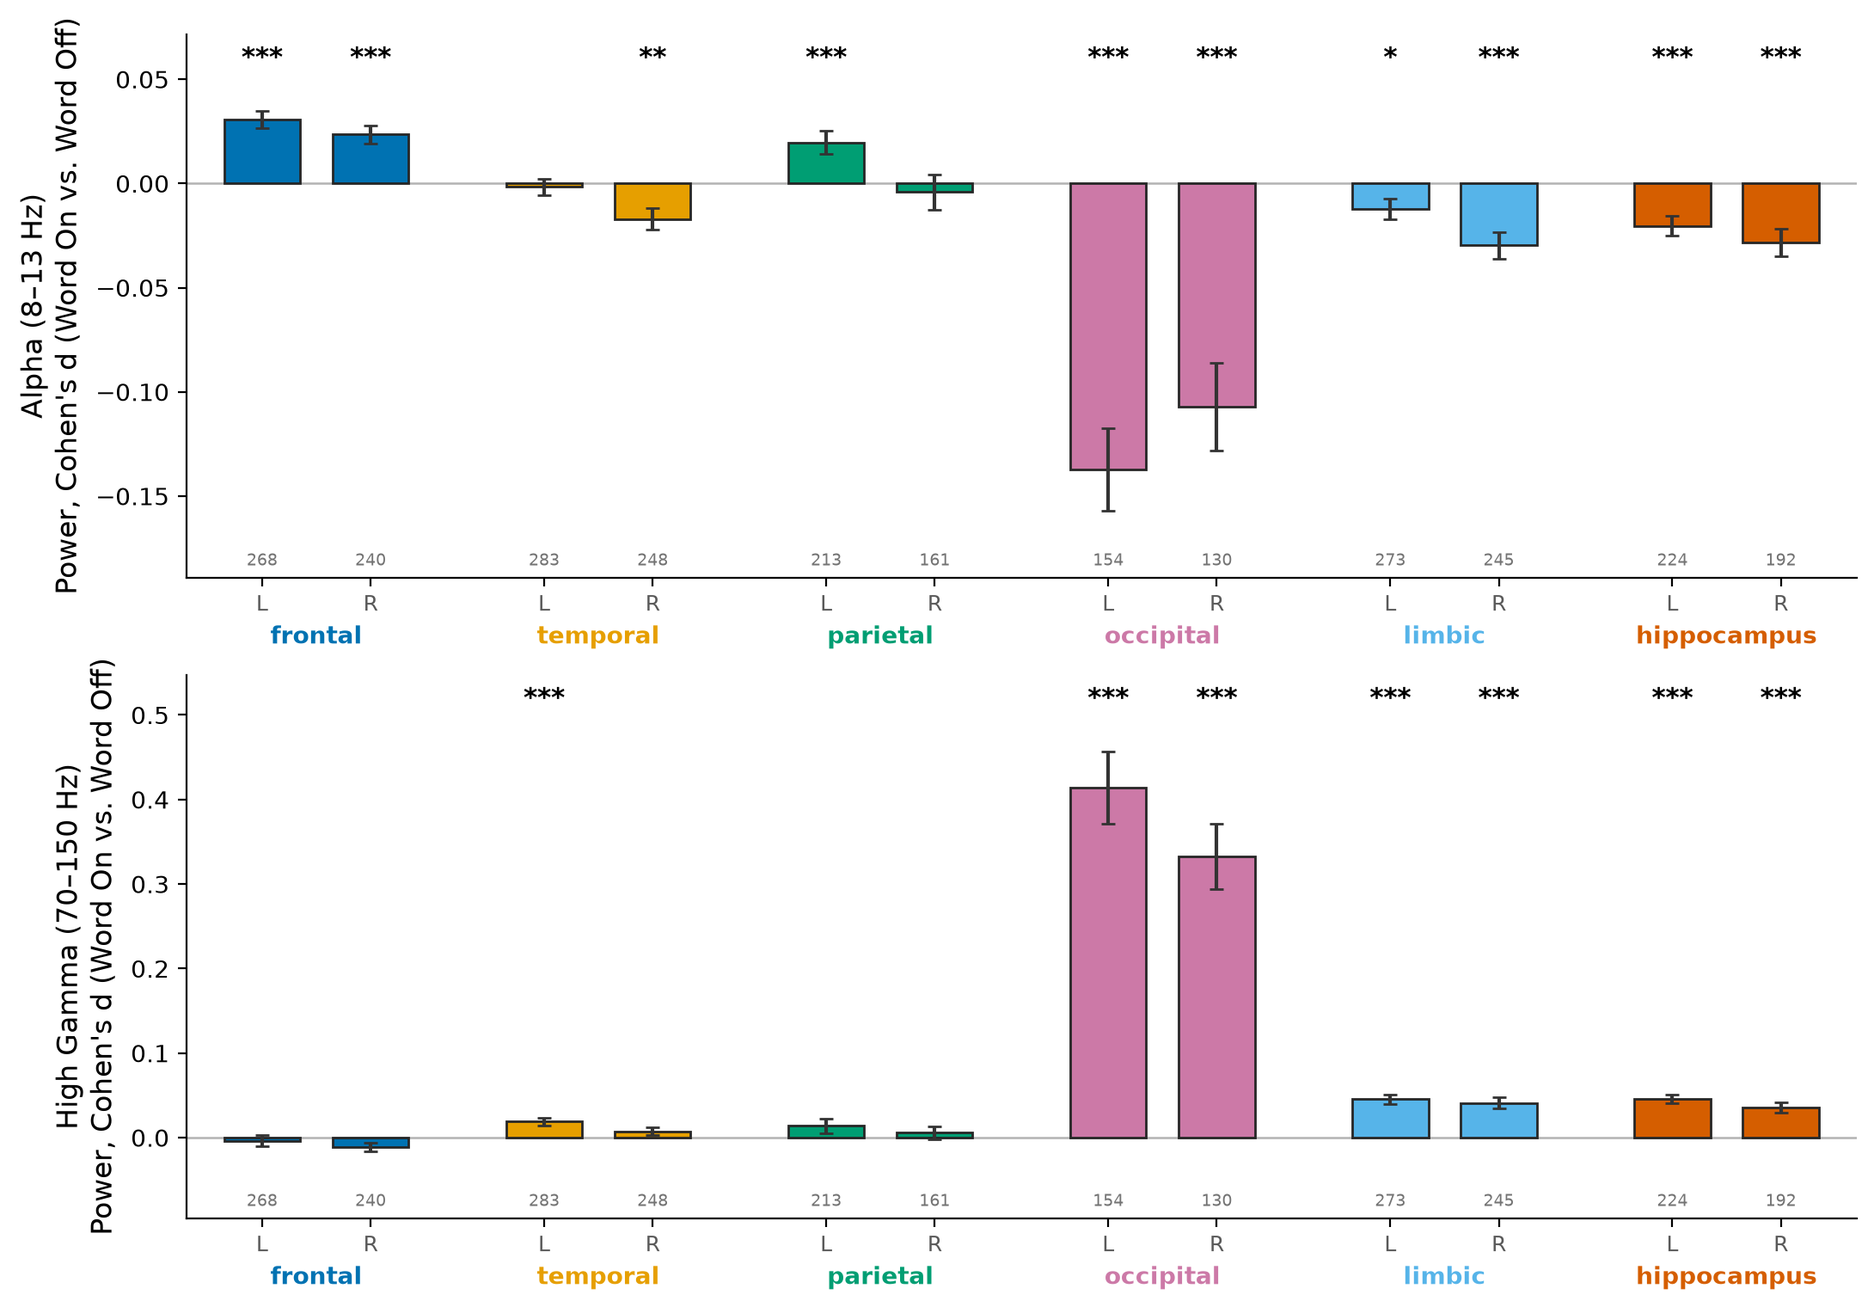
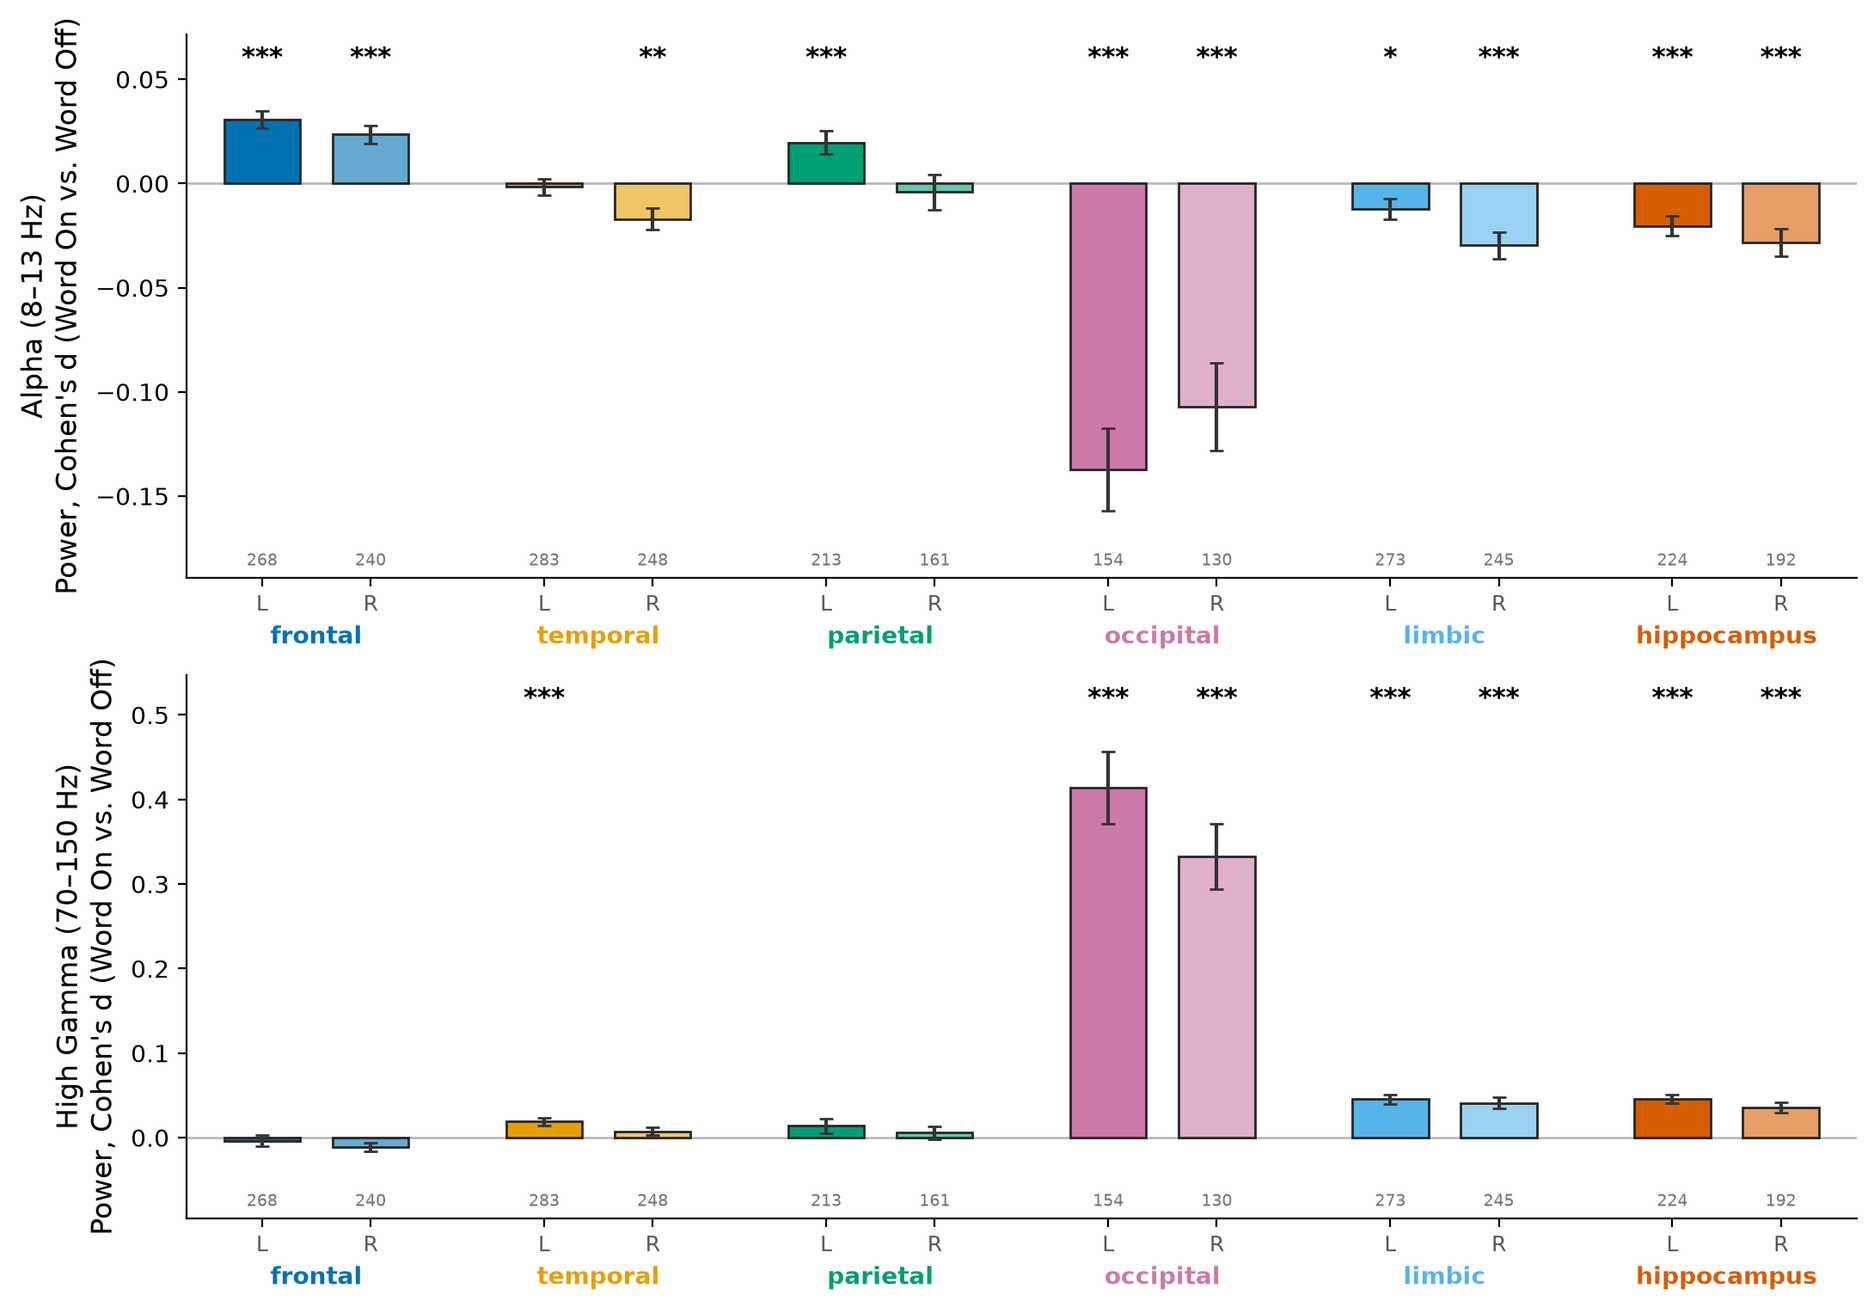
Compare SME AUC based on paper's features, plot formatting changes

diff --git a/plot_decoding.py b/plot_decoding.py
@@ -1,0 +1,121 @@
+"""plot_decoding.py -- does the single-trial word-onset response predict later recall?
+
+Per trial and Burke ROI (LOBES: those with a clear spectral effect), from compute.py's
+power pickles, mean over the ROI's electrodes; one group per paper section:
+  power        word on (0-600 ms): log alpha, log high-gamma power         (power figure)
+  time course  high-gamma response (plot_latency.response) in 100 ms bins,
+               0-1000 ms                                                  (time course)
+  pre-word     word off (the blank before the word): log alpha, log high-gamma
+               power; and the blank's duration                           (anticipation)
+z-scored within session; missing values (ROI absent) -> 0.
+
+Per subject (>= MIN_TRIALS recalled and forgotten words): L2 logistic regression
+(C as the lab's RAM encoding classifiers, Ezzyat et al. 2017), balanced class weights,
+leave-one-session-out (single-session subjects: 5 contiguous blocks of trials); AUC of
+the pooled held-out predictions. Models add the groups in turn. Across subjects:
+one-sample t of AUC vs 0.5; paired t of each model vs the one before it (does the
+group add information?).
+-> figures/decoding/recall_auc_word_on.png (+ _per_subject.csv)
+
+    python plot_decoding.py [--simulation-tag TAG]
+"""
+from __future__ import annotations
+
+import os
+from os.path import join
+
+import matplotlib.pyplot as plt
+import numpy as np
+import pandas as pd
+from scipy.stats import ttest_1samp, ttest_rel
+from sklearn.linear_model import LogisticRegression
+from sklearn.metrics import roc_auc_score
+from sklearn.model_selection import LeaveOneGroupOut, cross_val_predict
+from tqdm.auto import tqdm
+
+import fc_comparison_functions as fc
+from compute import power_dir
+from plot_latency import response
+
+BEH = "word_on"
+LOBES = ("frontal", "occipital", "hippocampus")   # both hemispheres
+GROUPS = {"power": ["alpha", "hg_power"], "time course": ["hg_t"], "pre-word": ["alpha_pre", "hg_pre", "wait"]}
+MODELS = {"power": GROUPS["power"], "+ time course": GROUPS["power"] + GROUPS["time course"],
+          "+ pre-word": sum(GROUPS.values(), [])}
+BIN_MS = 100
+MIN_TRIALS = 10
+C = 7.2e-4   # L2 strength of the lab's encoding classifiers; C = 1 overfits the time-course features
+
+
+def session_features(p: dict, p_alpha: dict, lobe_of: dict) -> pd.DataFrame:
+    """(trials x '<feature>|<roi>') z-scored within the session, + recalled, session."""
+    roi = fc.roi_of_reg_full(p["reg_full"], lobe_of)
+    x, t = response(p)
+    log = lambda q, k: np.log(np.asarray(q[k], float))
+    cols = {"wait": p["blank_ms_hi"]}
+    for r in {r for r in roi if r is not None and r.split("-", 1)[1] in LOBES}:
+        e = roi == r
+        cols[f"alpha|{r}"], cols[f"hg_power|{r}"] = log(p_alpha, "trial_pow_hi")[:, e].mean(1), log(p, "trial_pow_hi")[:, e].mean(1)
+        cols[f"alpha_pre|{r}"], cols[f"hg_pre|{r}"] = log(p_alpha, "trial_pow_lo")[:, e].mean(1), log(p, "trial_pow_lo")[:, e].mean(1)
+        for a in range(0, 1000, BIN_MS):
+            cols[f"hg_t|{r}|{a}"] = x[:, e][..., (t >= a) & (t < a + BIN_MS)].mean((1, 2))
+    f = pd.DataFrame(cols)
+    f = (f - f.mean()) / f.std()
+    f["recalled"], f["session"] = p["recalled_hi"], str(p["sid"])
+    return f
+
+
+def main() -> None:
+    args, save_root = fc.plot_args(__doc__, join("figures", "decoding"))
+    lobe_of = fc.load_burke_maps()
+    subs: dict[str, list] = {}
+    for f in tqdm(fc.session_files(power_dir(save_root, BEH, "high_gamma"), "_power.pkl", args.n_sessions),
+                  desc="sessions"):
+        p = fc.load_pickle(str(f))
+        p_alpha = fc.load_pickle(str(power_dir(save_root, BEH, "alpha") / f.name))
+        subs.setdefault(str(p["sid"][0]), []).append(session_features(p, p_alpha, lobe_of))
+
+    rows = []
+    for sub, fs in tqdm(subs.items(), desc="subjects"):
+        d = pd.concat(fs, ignore_index=True).dropna(subset=["recalled"])
+        y = d["recalled"].to_numpy(int)
+        if min(y.sum(), len(y) - y.sum()) < MIN_TRIALS:
+            continue
+        groups = d["session"] if d["session"].nunique() > 1 else np.arange(len(d)) * 5 // len(d)
+        r = {"sub": sub, "n_sessions": d["session"].nunique(), "n_trials": len(y), "recall_rate": y.mean()}
+        for m, feats in MODELS.items():
+            X = d[[c for c in d if c.split("|")[0] in feats]].fillna(0).to_numpy()
+            if X.shape[1]:
+                prob = cross_val_predict(LogisticRegression(C=C, class_weight="balanced", max_iter=1000), X, y,
+                                         groups=groups, cv=LeaveOneGroupOut(), method="predict_proba")[:, 1]
+                r[m] = roc_auc_score(y, prob)
+        rows.append(r)
+    df = pd.DataFrame(rows)
+    os.makedirs(args.out_dir, exist_ok=True)
+    stem = join(args.out_dir, f"recall_auc_{BEH}")
+    df.to_csv(f"{stem}_per_subject.csv", index=False)
+
+    fig, ax = plt.subplots(figsize=(4.5, 4))
+    for i, m in enumerate(MODELS):
+        a = df[m].dropna()
+        t, pv = ttest_1samp(a, 0.5)
+        print(f"[decoding] {m}: AUC {a.mean():.3f} ± {a.sem():.3f} SEM, t({len(a) - 1}) = {t:.2f}, p = {pv:.2g}")
+        ax.bar(i, a.mean(), yerr=a.sem(), color=plt.cm.Blues(0.4 + 0.25 * i), edgecolor="0.15", capsize=4)
+    for m0, m1 in zip(MODELS, list(MODELS)[1:]):
+        t, pv = ttest_rel(df[m1], df[m0], nan_policy="omit")
+        print(f"[decoding] {m1} vs {m0}: t = {t:.2f}, p = {pv:.2g}")
+    ax.axhline(0.5, color="black", ls="--", lw=1)
+    ax.set_ylim(0.45, None)
+    ax.set_xticks(range(len(MODELS)), list(MODELS), fontsize=11)
+    ax.set_xlabel("Features used", fontsize=12)
+    ax.set_ylabel("AUC", fontsize=12)
+    ax.spines[["top", "right"]].set_visible(False)
+    fig.tight_layout()
+    fig.savefig(f"{stem}.png", dpi=300)
+    fig.savefig(f"{stem}.pdf")
+    plt.close(fig)
+    print(f"[saved] {stem}.png")
+
+
+if __name__ == "__main__":
+    main()

diff --git a/plot_latency.py b/plot_latency.py
@@ -23,6 +23,7 @@ from os.path import join
 import matplotlib.pyplot as plt
 import numpy as np
 import pandas as pd
+from scipy.ndimage import uniform_filter1d
 from scipy.stats import t as tdist, ttest_ind
 from statsmodels.stats.multitest import multipletests
 from tqdm.auto import tqdm
@@ -34,33 +35,47 @@ PEAK_WIN_MS = (0, 800)
 SMOOTH_MS = 30
 
 
-def electrode_rows(p: dict, lobe_of: dict) -> list[tuple]:
-    """(sub, label, roi, latency_ms, trial-mean response curve, fine label) per responsive electrode."""
+def responsive(p: dict) -> np.ndarray:
+    """(C,) word on > word off per-trial power: one-sided Welch t, BH-FDR within session, q < .05."""
     lo, hi = np.asarray(p["trial_pow_lo"], float), np.asarray(p["trial_pow_hi"], float)
-    t, pv = ttest_ind(hi, lo, axis=0, equal_var=False, alternative="greater", nan_policy="omit")
+    _, pv = ttest_ind(hi, lo, axis=0, equal_var=False, alternative="greater", nan_policy="omit")
     ok = np.isfinite(pv)
     resp = np.zeros(len(pv), bool)
     if ok.any():
         resp[ok] = multipletests(pv[ok], method="fdr_bh")[0]
+    return resp
+
+
+def response(p: dict) -> tuple[np.ndarray, np.ndarray]:
+    """Per-trial high-gamma envelope minus each electrode's word-off mean, smoothed
+    (SMOOTH_MS, edge-padded: no dip at the ends): (E, C, T), and times (T,)."""
     step = float(p["env_step_ms"])
-    curve = np.nanmean(np.asarray(p["env_hi"], float), axis=0)                 # (C, T)
-    curve -= np.nanmean(np.asarray(p["env_lo"], float), axis=(0, 2))[:, None]  # minus word-off mean
-    k = max(1, int(round(SMOOTH_MS / step)))
-    pad = np.pad(curve, ((0, 0), (k // 2, k - 1 - k // 2)), mode="edge")   # edge-padded: no dip at the ends
-    curve = np.apply_along_axis(lambda c: np.convolve(c, np.ones(k) / k, mode="valid"), 1, pad)
-    times = p["env_hi_t0_ms"] + step * (np.arange(curve.shape[1]) + 0.5)
-    win = (times >= PEAK_WIN_MS[0]) & (times < PEAK_WIN_MS[1])
+    x = np.asarray(p["env_hi"], float) - np.nanmean(np.asarray(p["env_lo"], float), axis=(0, 2))[:, None]
+    x = uniform_filter1d(x, max(1, int(round(SMOOTH_MS / step))), axis=-1, mode="nearest")
+    return x, p["env_hi_t0_ms"] + step * (np.arange(x.shape[-1]) + 0.5)
+
+
+def half_max(c: np.ndarray, times: np.ndarray) -> tuple[np.ndarray, np.ndarray]:
+    """(latency, peak) along the last axis within PEAK_WIN_MS: latency = first time the
+    curve reaches half its peak; NaN where the peak is <= 0."""
+    w = (times >= PEAK_WIN_MS[0]) & (times < PEAK_WIN_MS[1])
+    c, t = c[..., w], times[w]
+    pk = c.max(-1)
+    lat = t[np.argmax(c >= pk[..., None] / 2, -1)]
+    return np.where(pk > 0, lat, np.nan), pk
+
+
+def electrode_rows(p: dict, lobe_of: dict) -> list[tuple]:
+    """(sub, label, roi, latency_ms, trial-mean response curve, fine label) per responsive electrode."""
+    x, times = response(p)
+    curve = np.nanmean(x, axis=0)   # (C, T); smoothing is linear, so = smoothed trial mean
+    lat, _ = half_max(curve, times)
     roi = fc.roi_of_reg_full(p["reg_full"], lobe_of)
     out = []
-    for c in np.flatnonzero(resp):
-        if roi[c] is None or not np.isfinite(curve[c]).all():   # float16 overflow in compute.py v1 envelopes
+    for c in np.flatnonzero(responsive(p)):
+        if roi[c] is None or np.isnan(lat[c]):
             continue
-        w = curve[c, win]
-        pk = int(np.argmax(w))
-        if w[pk] <= 0:
-            continue
-        lat = times[win][int(np.argmax(w[:pk + 1] >= w[pk] / 2))]   # first crossing of half max
-        out.append((str(p["sid"][0]), str(p["labels"][c]), roi[c], float(lat), curve[c], str(p["reg_full"][c])))
+        out.append((str(p["sid"][0]), str(p["labels"][c]), roi[c], float(lat[c]), curve[c], str(p["reg_full"][c])))
     return out
 
 
@@ -74,8 +89,6 @@ def main() -> None:
     for f in tqdm(fc.session_files(power_dir(save_root, "word_on", "high_gamma"), "_power.pkl", args.n_sessions),
                   desc="sessions"):
         p = fc.load_pickle(str(f))
-        if p.get("env_hi") is None:
-            continue
         n_elec += len(p["labels"])
         if times is None:
             times = p["env_hi_t0_ms"] + p["env_step_ms"] * (np.arange(np.shape(p["env_hi"])[-1]) + 0.5)

diff --git a/plot_case_studies.py b/plot_case_studies.py
@@ -6,7 +6,7 @@ Default: the 4 occipital subregions (Burke occipital ROI) with the most subjects
 plot_spectrum.py; a subject's value is the mean over its electrodes in the region,
 both hemispheres. Significance: TFCE along frequency with sign-flip permutations
 and max-statistic correction over all region x bin cells (plot_spectrum.tfce_test);
-filled markers p_FWE < .05.
+stars p_FWE < .05.
 -> figures/burke_roi_power/power_spectrum_word_on_<name>.png
 
     python plot_case_studies.py [--regions "fusiform gyrus" ...] [--name occipital]
@@ -17,6 +17,7 @@ import os
 from os.path import join
 
 import matplotlib.pyplot as plt
+import numpy as np
 import pandas as pd
 
 import fc_comparison_functions as fc
@@ -42,21 +43,20 @@ def main() -> None:
     stem = join(args.out_dir, f"power_spectrum_{BEH}_{args.name}")
     pd.DataFrame([(r, CENTRES[b], T[i, b], p[i, b]) for i, r in enumerate(args.regions) for b in range(len(CENTRES))],
                  columns=["region", "freq_hz", "t", "p_fwe_tfce"]).to_csv(f"{stem}_stats.csv", index=False)
-    fig, ax = plt.subplots(figsize=(7.5, 5))
-    for i, r in enumerate(args.regions):
-        line, = ax.plot(CENTRES, T[i], lw=2, label=f"{r[:1].upper() + r[1:]} (n={n_sub.get(r, 0)})")
+    fig, axes = plt.subplots(2, 2, figsize=(9, 6.5), sharex=True, sharey=True)
+    for i, (r, ax) in enumerate(zip(args.regions, axes.flat)):
+        col = f"C{i}"
+        ax.plot(CENTRES, T[i], "o-", lw=2, ms=5, color=col)
         sig = p[i] < 0.05
-        ax.plot(CENTRES[~sig], T[i][~sig], "o", ms=6, mfc="white", mec=line.get_color(), mew=1.5)
-        ax.plot(CENTRES[sig], T[i][sig], "o", ms=7, color=line.get_color())
-    ax.axhline(0, color="0.6", lw=0.8)
-    ax.set_xscale("log")
-    ax.set_xticks(CENTRES, [f"{x:.0f}" for x in CENTRES], fontsize=12)
-    ax.minorticks_off()
-    ax.tick_params(axis="y", labelsize=12)
-    ax.set_xlabel("Frequency (Hz)", fontsize=14)
-    ax.set_ylabel(t_label(), fontsize=14)
-    ax.spines[["top", "right"]].set_visible(False)
-    ax.legend(fontsize=11, frameon=False, title="filled: p$_{FWE}$ < .05 (TFCE)", title_fontsize=10)
+        ax.plot(CENTRES[sig], T[i][sig] + 1.0 * np.sign(T[i][sig]), "*", ms=9, color=col)
+        ax.axhline(0, color="0.6", lw=0.8)
+        ax.set_title(f"{r[:1].upper() + r[1:]} (n={n_sub.get(r, 0)})", fontsize=12, color=col)
+        ax.set_xscale("log")
+        ax.set_xticks(CENTRES, [f"{x:.0f}" for x in CENTRES], fontsize=10)
+        ax.minorticks_off()
+        ax.spines[["top", "right"]].set_visible(False)
+    fig.supxlabel("Frequency (Hz)", fontsize=14)
+    fig.supylabel(t_label(), fontsize=14)
     fig.tight_layout()
     fig.savefig(f"{stem}.png", dpi=300)
     fig.savefig(f"{stem}.pdf")

diff --git a/plot_anticipation.py b/plot_anticipation.py
@@ -23,17 +23,9 @@ from tqdm.auto import tqdm
 
 import fc_comparison_functions as fc
 from compute import power_dir
-from plot_latency import PEAK_WIN_MS, SMOOTH_MS
-from scipy.stats import ttest_ind
-from statsmodels.stats.multitest import multipletests
+from plot_latency import half_max, response, responsive
 
 BEH = "word_on"
-
-
-def peak(curve: np.ndarray, t: np.ndarray, k: int) -> float:
-    """Peak of a smoothed response curve within PEAK_WIN_MS."""
-    c = np.convolve(curve, np.ones(k) / k, mode="same")
-    return float(c[(t >= PEAK_WIN_MS[0]) & (t < PEAK_WIN_MS[1])].max())
 
 
 def main() -> None:
@@ -43,26 +35,16 @@ def main() -> None:
     for f in tqdm(fc.session_files(power_dir(save_root, BEH, "high_gamma"), "_power.pkl", args.n_sessions),
                   desc="sessions"):
         p = fc.load_pickle(str(f))
-        lo, hi = np.asarray(p["trial_pow_lo"], float), np.asarray(p["trial_pow_hi"], float)
-        _, pv = ttest_ind(hi, lo, axis=0, equal_var=False, alternative="greater", nan_policy="omit")
-        ok = np.isfinite(pv)
-        resp = np.zeros(len(pv), bool)
-        if ok.any():
-            resp[ok] = multipletests(pv[ok], method="fdr_bh")[0]
-        env_hi = np.asarray(p["env_hi"], float)
-        t = p["env_hi_t0_ms"] + p["env_step_ms"] * (np.arange(env_hi.shape[-1]) + 0.5)
-        k = max(1, int(round(SMOOTH_MS / p["env_step_ms"])))
+        x, t = response(p)
         blank = np.asarray(p["blank_ms_hi"], float)
         waits.append(blank[np.isfinite(blank)])
-        split = {"short": blank < np.nanmedian(blank), "long": blank > np.nanmedian(blank)}
-        base = np.nanmean(np.asarray(p["env_lo"], float), axis=(0, 2))   # common word-off baseline
+        long, short = blank > np.nanmedian(blank), blank < np.nanmedian(blank)
         roi = fc.roi_of_reg_full(p["reg_full"], lobe_of)
-        for c in np.flatnonzero(resp):
+        for c in np.flatnonzero(responsive(p)):
             if roi[c] is None:
                 continue
             r = {"sub": str(p["sid"][0]), "label": str(p["labels"][c]), "roi": roi[c]}
-            r["peak"] = peak(np.nanmean(env_hi[split["long"], c], 0) - base[c], t, k) \
-                - peak(np.nanmean(env_hi[split["short"], c], 0) - base[c], t, k)
+            r["peak"] = half_max(np.nanmean(x[long, c], 0), t)[1] - half_max(np.nanmean(x[short, c], 0), t)[1]
             rows.append(r)
     el = pd.DataFrame(rows).groupby(["sub", "label", "roi"], as_index=False)["peak"].mean()
     os.makedirs(args.out_dir, exist_ok=True)

diff --git a/compute.py b/compute.py
@@ -69,8 +69,8 @@ BEH = "word_on"
 SYNC = {"alpha": "ciplv", "high_gamma": "aec_c"}
 HG_SUBBANDS = [(f, f + 10) for f in range(70, 150, 10)]
 ENV_STEP_MS = 10          # stored per-trial high-gamma envelope resolution
-VERSION = "single_pass_6"   # 2: envelopes float32 (float16 overflowed); 3-4: PAC (since removed);
-#                            5: epochs 0-1000 ms, 200 ms every 100 ms; 6: recalled_hi
+VERSION = "single_pass_7"   # 2: envelopes float32 (float16 overflowed); 3-4: PAC (since removed);
+#                            5: epochs 0-1000 ms, 200 ms every 100 ms; 6: recalled_hi; 7: per-trial spectrum bins
 
 
 def _crop(eeg: Any, win: tuple[float, float]) -> np.ndarray:
@@ -167,7 +167,8 @@ def run_session(dfrow: pd.Series, save_root: str, root_dir: str,
     b_lo, b_hi = band_power_bins(lo, sf, bw), band_power_bins(hi, sf, bw)   # (E, C, n_bins)
     save("spectrum", b_lo.mean(-1), b_hi.mean(-1),
          {"measure": "power", "fc_mode": "multitaper", "mt_bandwidth": bw, "freq_edges": FREQ_EDGES,
-          "cohens_d_freq": np.stack([_cohens_d(b_hi[..., k], b_lo[..., k]) for k in range(b_lo.shape[-1])], -1)})
+          "cohens_d_freq": np.stack([_cohens_d(b_hi[..., k], b_lo[..., k]) for k in range(b_lo.shape[-1])], -1),
+          "trial_pow_bins_lo": b_lo.astype(np.float32), "trial_pow_bins_hi": b_hi.astype(np.float32)})   # decoder
 
     # high gamma: sub-band Hilbert power, each sub-band / its word-off mean (per channel), averaged
     t_pre = np.asarray(pre_eeg.time, float)[n_buf:len(pre_eeg.time) - n_buf]

diff --git a/fc_comparison_functions.py b/fc_comparison_functions.py
@@ -461,6 +461,13 @@ LOBE_COLORS: dict[str, str] = {
     "hippocampus": "#D55E00",
 }
 
+
+def roi_color(roi: str) -> Any:
+    """'<H>-<lobe>' -> its lobe colour; right hemisphere a lighter shade of it."""
+    import matplotlib.colors as mcolors
+    c = np.array(mcolors.to_rgb(LOBE_COLORS.get(roi.split("-", 1)[1], "0.5")))
+    return tuple(c + 0.4 * (1 - c)) if roi.startswith("R") else tuple(c)
+
 # Minimum subjects contributing an ROI before it is tested / drawn.
 # Minimum subjects per test; a subject
 # needs only 1 electrode in a region. Simulations (20 subjects) use 5 (resolve_roots).
@@ -638,7 +645,7 @@ def roi_panel(
     pos = _roi_positions(roi_order, lobes)
     for roi in roi_order:
         data.append(tbl.loc[tbl["roi"] == roi, measure].dropna().to_numpy(float))
-        colors.append(LOBE_COLORS.get(roi.split("-", 1)[1], "0.5"))
+        colors.append(roi_color(roi))
 
     drawn = [i for i, v in enumerate(data) if v.size >= MIN_SUBJECTS_ROI]
 
@@ -693,7 +700,7 @@ def roi_bar_panel(
             continue
         r = s.loc[roi]
         ax.bar(pos[i], r["mean"], yerr=r["sem"], width=0.7, capsize=3, edgecolor="0.15",
-               ecolor="0.2", color=LOBE_COLORS.get(roi.split("-", 1)[1], "0.5"), zorder=3)
+               ecolor="0.2", color=roi_color(roi), zorder=3)
         ax.annotate(f"{int(r['n_subjects'])}", (pos[i], 0.015), xycoords=("data", "axes fraction"),
                     ha="center", va="bottom", fontsize=7, color="0.45")
         if stars(float(r["q"])):

diff --git a/TODO.md b/TODO.md
@@ -74,6 +74,8 @@
   (AEC-c), leak_frontal (zero-lag; both should stay 0), hg_null; 30 subjects ->
   figures/simulations/<tag>/. hg_ppc bursts sit at the clip centre (~800 ms in the 0-1600 ms
   post load), outside the 0-600 ms window -- fix or retire hg_ppc / the PPC recovery sweeps.
+- **Decoder hyperparameter tuning**: nested CV over the L2 strength C per subject (now fixed at
+  the lab's 7.2e-4, Ezzyat et al. 2017).
 
 ## Methods notes / deviations to report
 - Region-pair floor 30 subjects (riley-thesis 100: only 3 ROI pairs reach it here).
